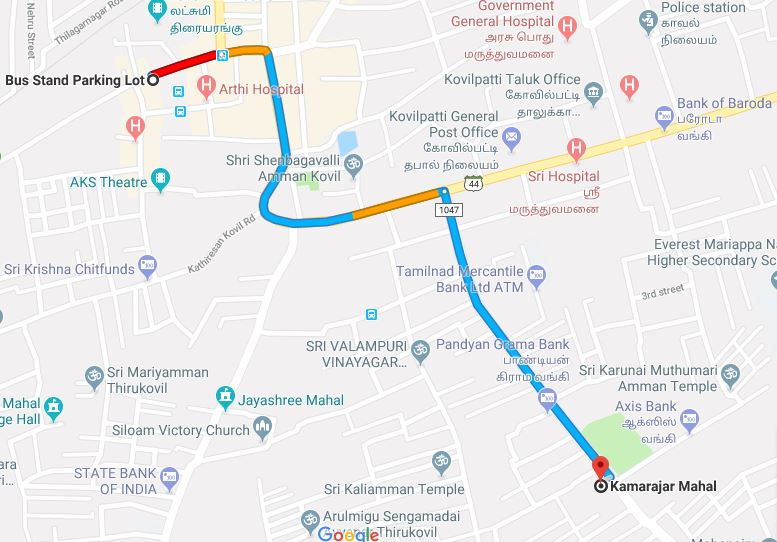
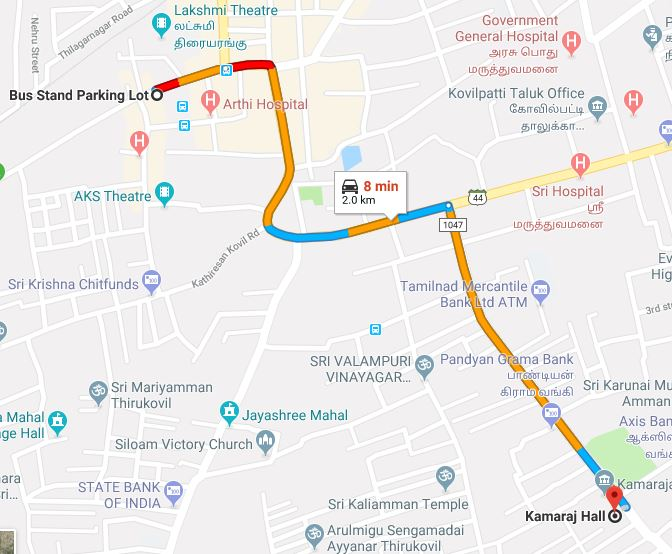
testing json

diff --git a/index.html b/index.html
@@ -50,12 +50,12 @@ crossorigin="anonymous">
                         <a target="_blank" href="https://maps.google.com/?cid=14514721557523221077">
 
 
-                                <img class="card-img-top" src="./images/map.JPG" alt="Card image cap">
+                                <img class="card-img-top" src="./images/map.jpg" alt="Card image cap">
                                 <div class="card-body">
                                         <h4 class="card-title"><i class="fa fa-map-marker-alt" style="color:red"></i>
-                                                Location</h4>
+                                                Wedding Venue</h4>
                                         <p class="card-text" style="text-decoration:none">From
-                                                Kovilpatti bus stand -> Kamarajar Mahal</p>
+                                                Kovilpatti bus stand -> Kamarajar Hall</p>
                                 </div>
                         </a>
                 </div>
@@ -67,5 +67,13 @@ crossorigin="anonymous">
 <script src="./js/script.js"></script>
 <script src="./js/popper.js"></script>
 <script src="./js/bootstrap.min.js"></script>
+<!-- <script type="text/javascript">
+        $(document).ready(function () {
+            //Disable full page
+            $("body").on("contextmenu",function(e){
+                return false;
+            });
+        });
+        </script> -->
 </body>
 </html>
